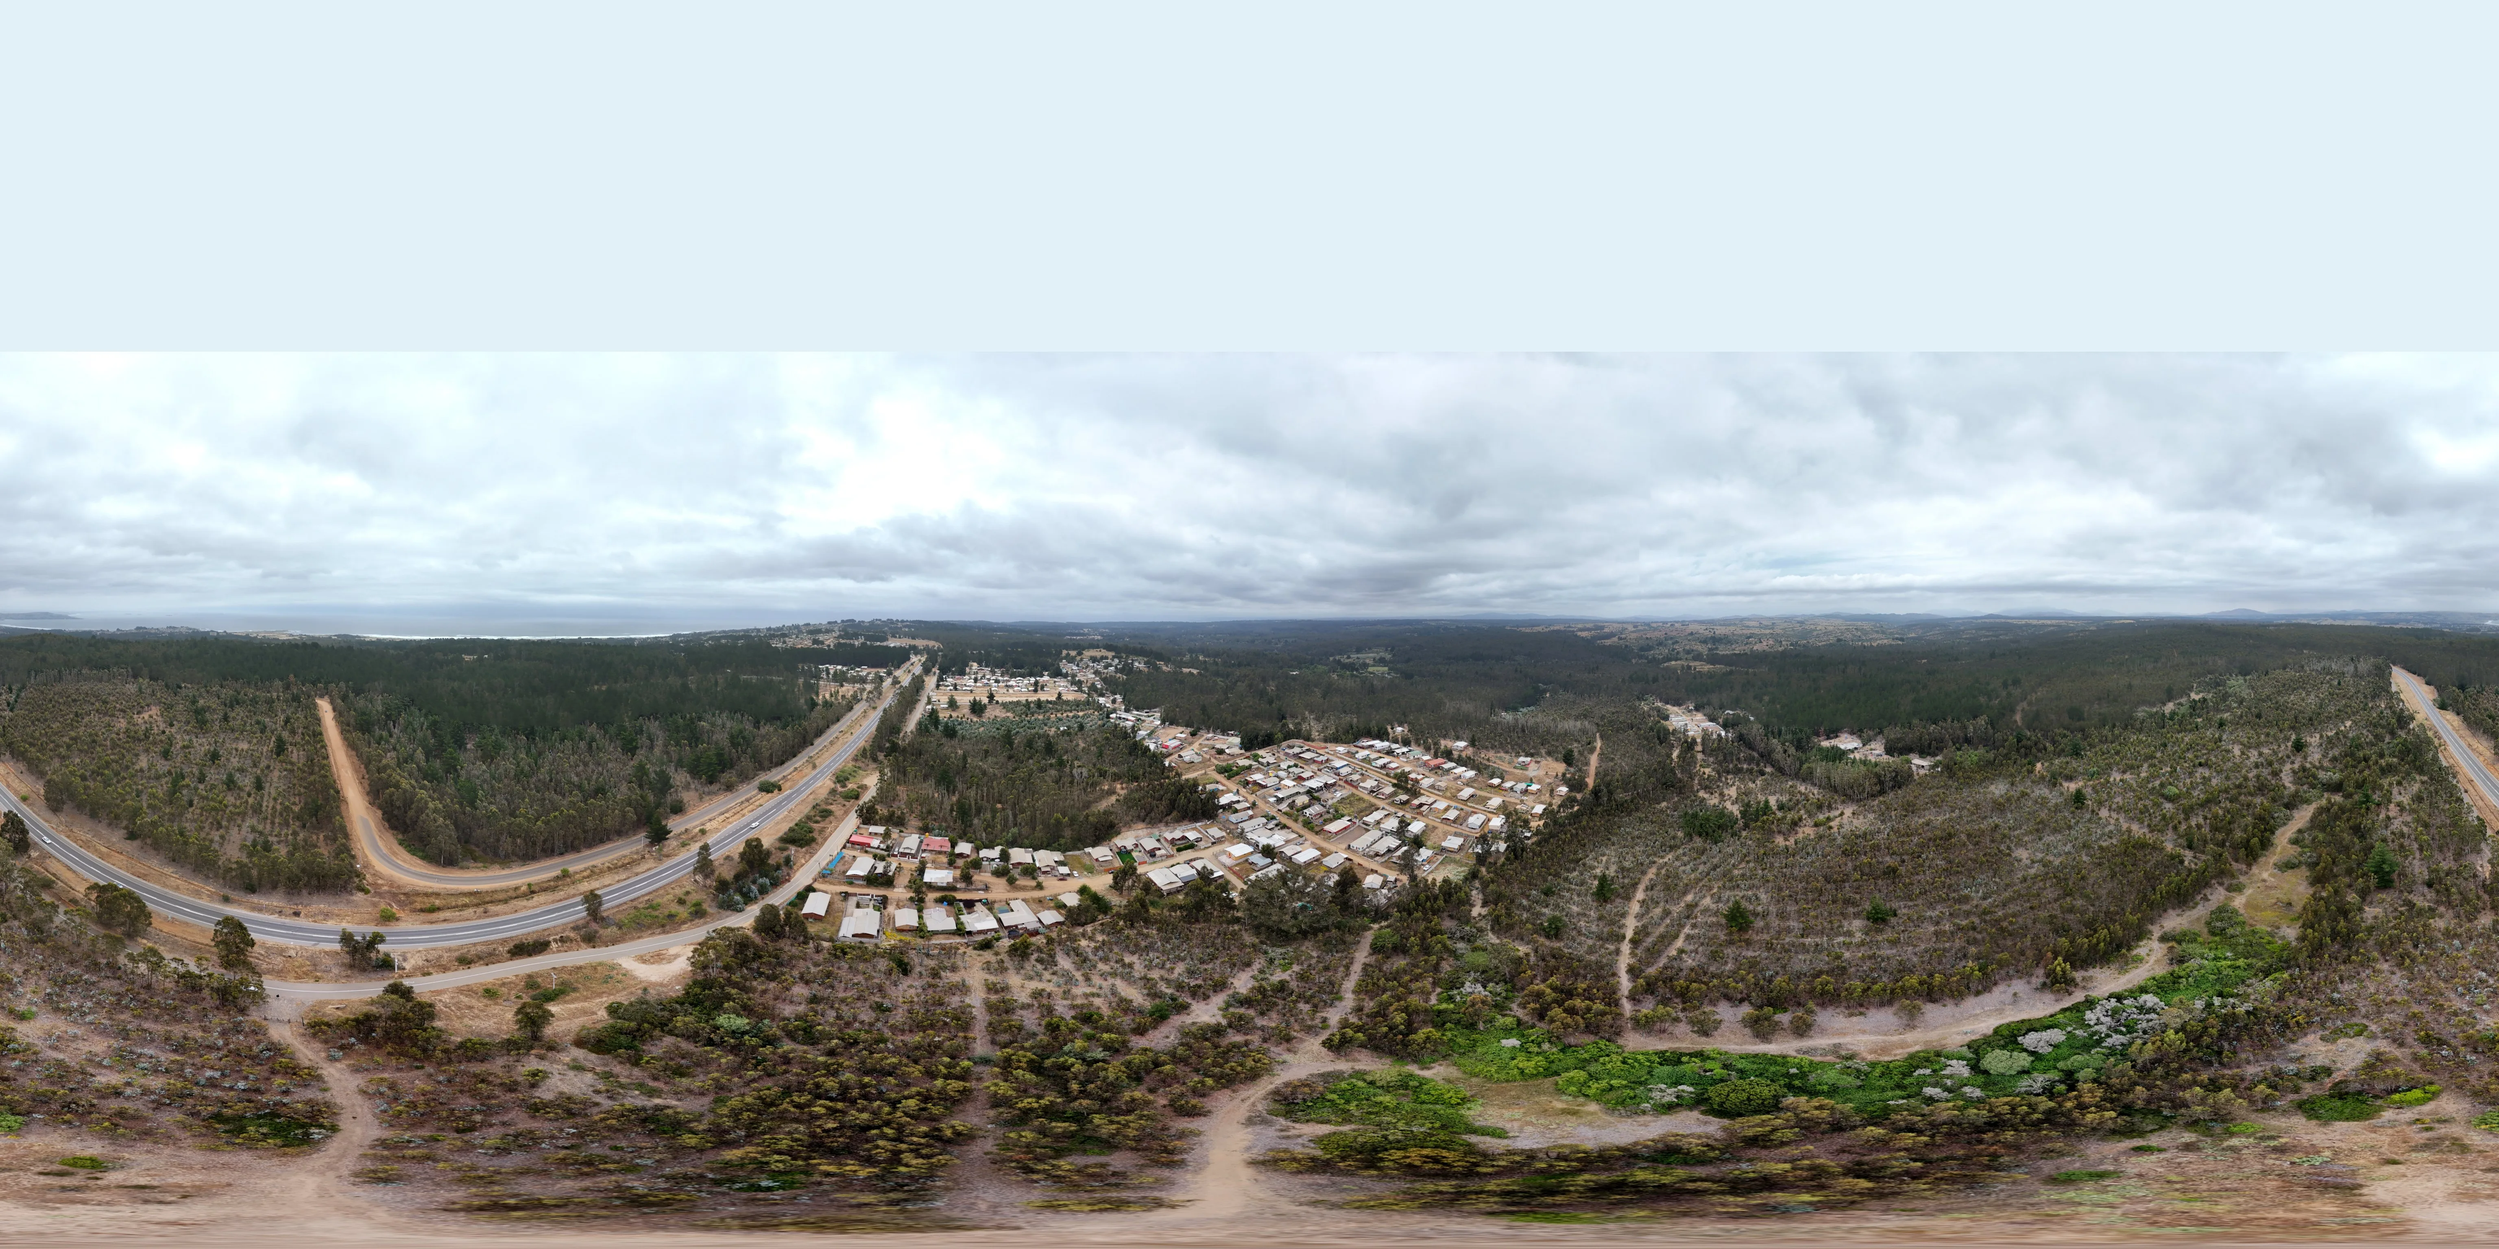
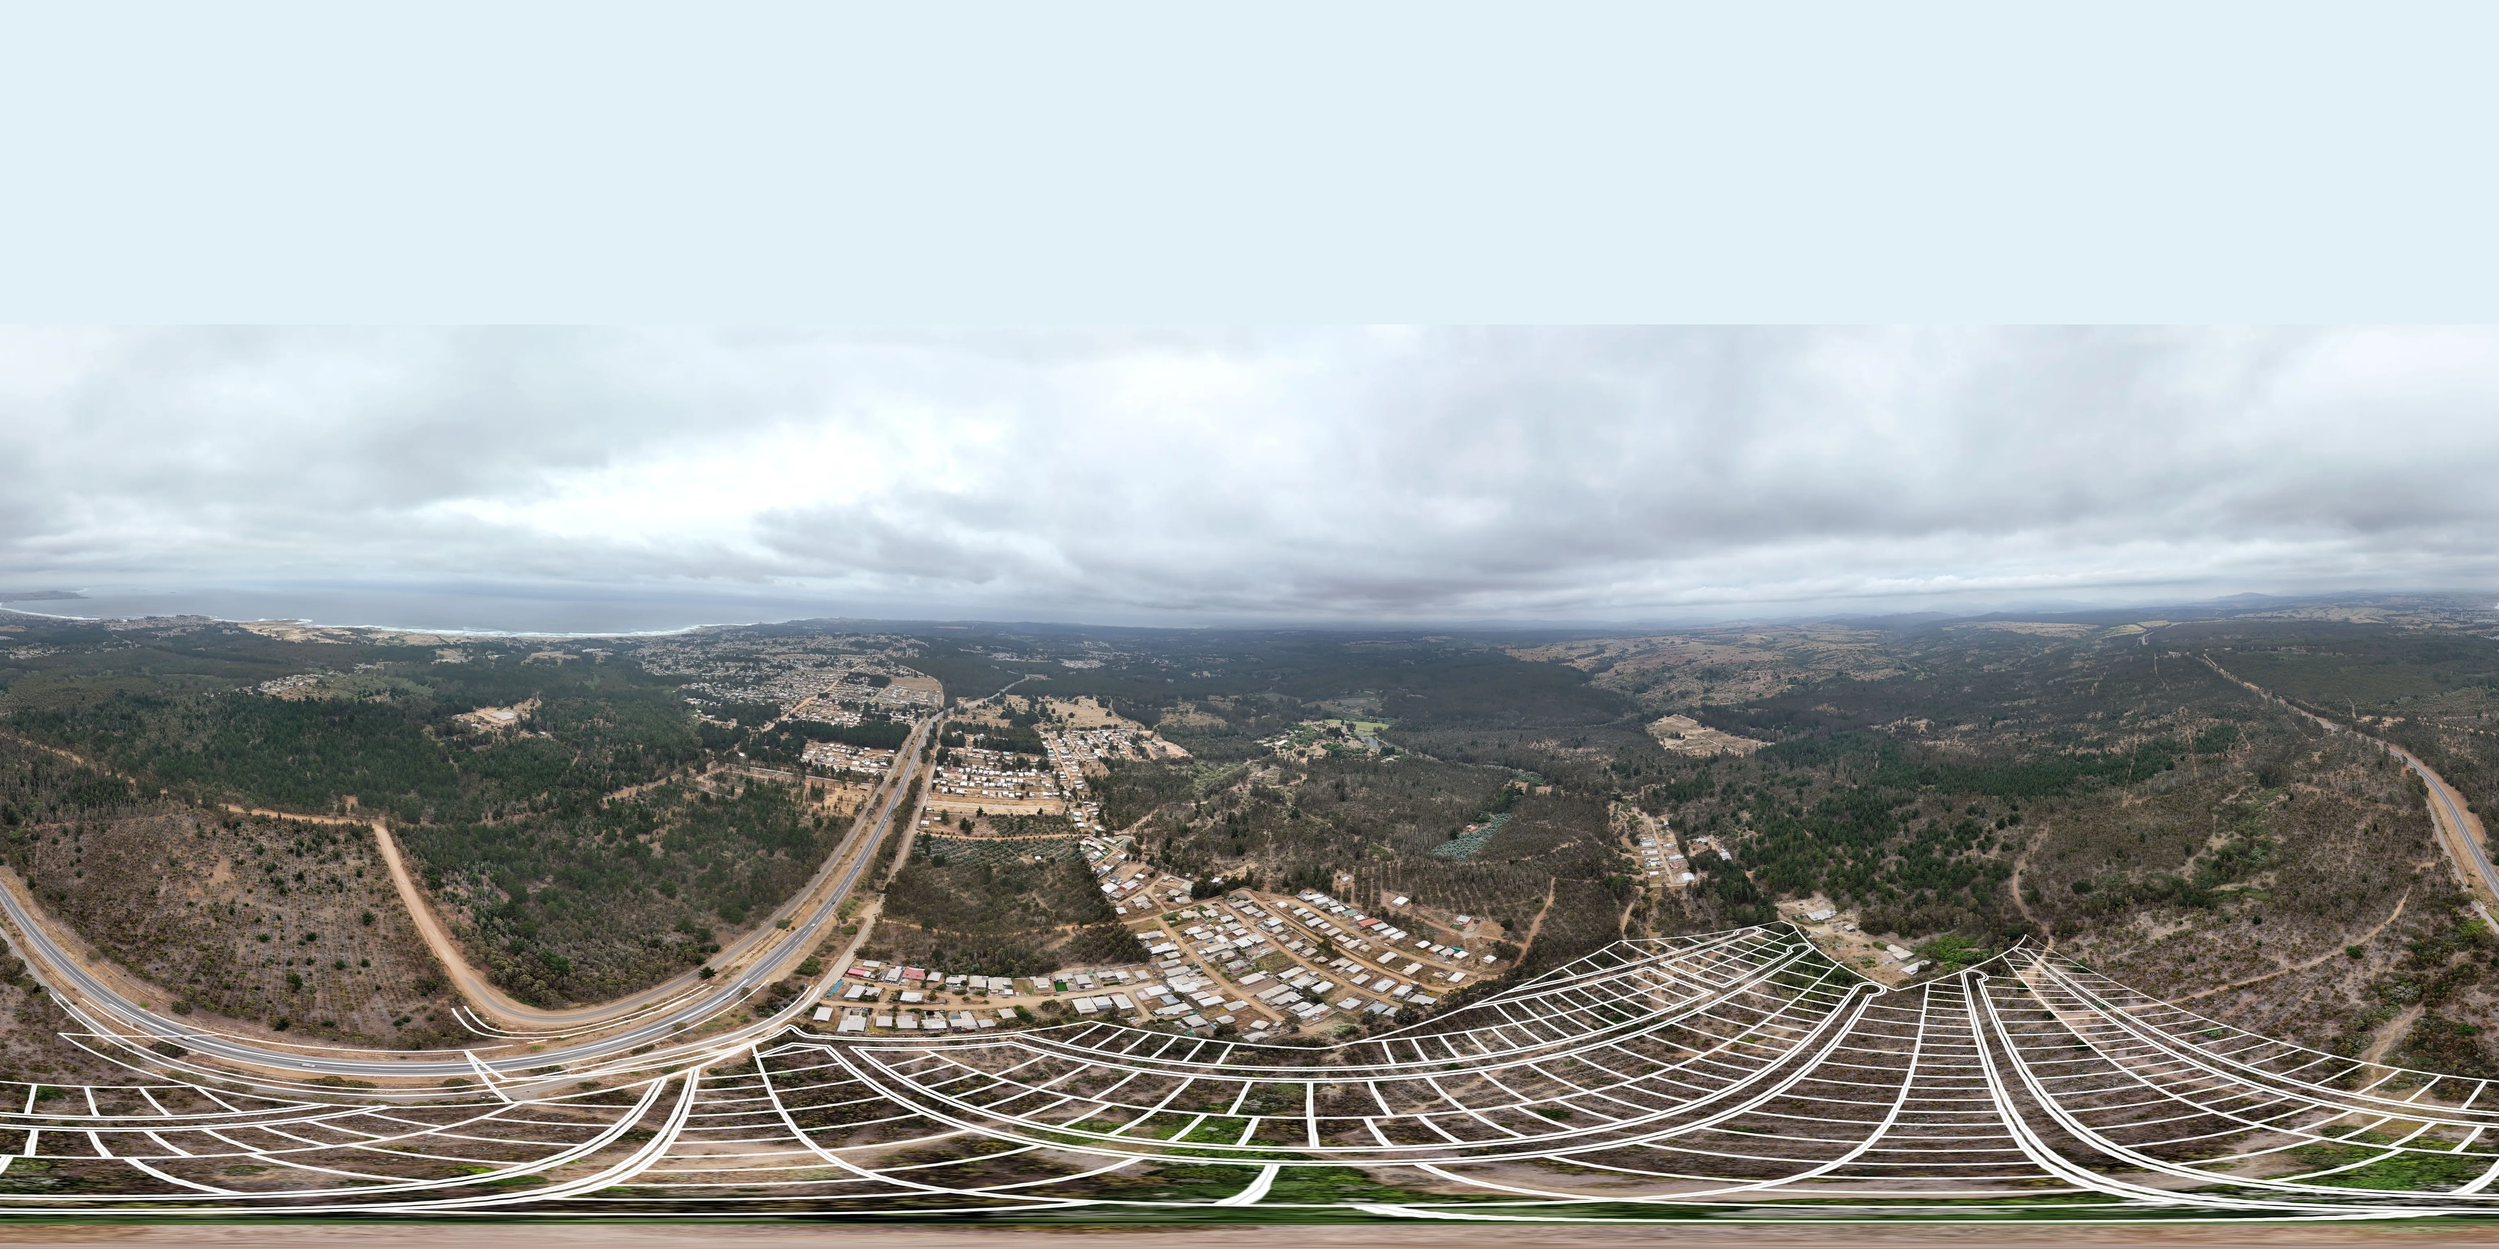
feat(mapa-3d): la panoramica con los deslindes dibujados, y el calce medido
El plano dibujado no venia en la proyeccion del mapa: era la misma foto pero
girada 34,1 grados y recortada 46,8 por arriba. importar-plano-panoramica.js
mide ese desfase correlacionando las dos imagenes (0,939 de correlacion) y
reconstruye la equirectangular 2:1 alineada, tomando de la base el cielo y el
cenit que el dibujado no trae.

Lo importante es lo que eso destrabo. La panoramica se estitcheo sin EXIF, no
hay GPS ni rumbo, y correlacionarla contra la ortofoto daba 0,137: no servia
para calzar nada. Con los deslindes dibujados el problema cambia, porque esas
lineas son los mismos lotes que ya tenemos en coordenadas: calzar-con-plano.js
proyecta los 137 poligonos al equirect y busca los cuatro parametros del vuelo
que hacen caer sus vertices sobre las lineas.

Resultado: 56,9 % de aciertos contra un 4,2 % por azar, catorce veces mejor.
Antes las lineas y los lotes estaban a unos 30 grados; ahora comparten
orientacion y espaciado.

No es perfecto: el calculo supone suelo plano y el loteo tiene 40 m de
desnivel, asi que queda deriva. Se termina a ojo en /agendar-visita?calce=1.

diff --git a/scripts/calzar-con-plano.js b/scripts/calzar-con-plano.js
@@ -1,0 +1,165 @@
+/*
+ * Calcula donde estaba el dron usando los deslindes dibujados sobre la
+ * panoramica.
+ *
+ * El manto del visor proyecta la panoramica sobre el terreno desde la posicion
+ * del dron. Si esa posicion esta mal, la foto queda girada y corrida respecto
+ * de los lotes. La panoramica se estitcheo y perdio el EXIF, asi que no hay
+ * GPS ni rumbo que leer, y correlacionar la foto contra la ortofoto dio 0,137:
+ * inservible.
+ *
+ * El plano dibujado cambia eso. Las lineas blancas SON los deslindes, trazados
+ * en el espacio de la panoramica. Y los 137 poligonos son los mismos deslindes
+ * en coordenadas reales. Asi que se buscan los cuatro parametros del vuelo que
+ * hacen coincidir unos con otros: se proyecta cada vertice al equirect y se
+ * mide cuantos caen sobre una linea blanca.
+ *
+ *   node scripts/calzar-con-plano.js
+ *
+ * Imprime el mejor calce. NO escribe nada: hay que revisarlo en
+ * /agendar-visita?calce=1 antes de guardarlo.
+ *
+ * Supone suelo plano a la cota media del loteo. El desnivel es de 40 m sobre
+ * 160 de altura de vuelo, asi que introduce error; alcanza para el rumbo y la
+ * posicion gruesa, y el ajuste fino se termina a ojo.
+ */
+
+const fs = require('fs')
+const path = require('path')
+const sharp = require('sharp')
+
+const RAIZ = path.join(__dirname, '..')
+const MAPA = path.join(RAIZ, 'public/lomas3d/lotes-editados.json')
+const PANO = path.join(RAIZ, 'public/lomas3d/pano-360.webp')
+
+const TAU = Math.PI * 2
+
+async function main() {
+    const datos = JSON.parse(fs.readFileSync(MAPA, 'utf8'))
+    const lotes = datos.lotes
+
+    // ── mascara de las lineas dibujadas ──────────────────────────────────────
+    const ANCHO = 2048
+    const img = await sharp(PANO).resize(ANCHO).raw().toBuffer({ resolveWithObject: true })
+    const W = img.info.width, H = img.info.height, C = img.info.channels
+    /* Solo bajo el horizonte, que en una equirectangular esta a media altura:
+       el cielo esta nublado y tambien es blanco, y al incluirlo la mascara se
+       comia media imagen y la busqueda dejaba de significar nada.
+
+       El umbral sale del histograma de esa mitad: el terreno se concentra
+       entre 50 y 80, y hay un pico aparte sobre 230 que son las lineas. */
+    const HORIZONTE = Math.floor(H * 0.52)
+    const linea = new Uint8Array(W * H)
+    let pintados = 0
+    for (let y = HORIZONTE; y < H; y++) {
+        for (let x = 0; x < W; x++) {
+            const i = (y * W + x) * C
+            const r = img.data[i], g = img.data[i + 1], b = img.data[i + 2]
+            const max = Math.max(r, g, b), min = Math.min(r, g, b)
+            if (min > 230 && max - min < 20) { linea[y * W + x] = 1; pintados++ }
+        }
+    }
+    const utiles = W * (H - HORIZONTE)
+    console.log(`Panoramica ${W}x${H} — ${(pintados / utiles * 100).toFixed(2)} % de linea bajo el horizonte`)
+    if (pintados < utiles * 0.005) {
+        console.error('Casi no se detectan lineas blancas. ¿Es la panoramica con el plano dibujado?')
+        process.exit(1)
+    }
+
+    // Se ensancha un poco: el trazo es fino y los vertices no caen exactos.
+    const mascara = new Uint8Array(W * H)
+    for (let y = HORIZONTE + 2; y < H - 2; y++) {
+        for (let x = 2; x < W - 2; x++) {
+            if (!linea[y * W + x]) continue
+            for (let dy = -2; dy <= 2; dy++) for (let dx = -2; dx <= 2; dx++) mascara[(y + dy) * W + x + dx] = 1
+        }
+    }
+
+    // ── puntos a lo largo del contorno de cada lote ──────────────────────────
+    const puntos = []
+    for (const l of lotes) {
+        for (let i = 0; i < l.p.length; i++) {
+            const a = l.p[i], b = l.p[(i + 1) % l.p.length]
+            const n = Math.max(2, Math.round(Math.hypot(b[0] - a[0], b[1] - a[1]) / 2))
+            for (let k = 0; k < n; k++) {
+                puntos.push([a[0] + (b[0] - a[0]) * k / n, a[1] + (b[1] - a[1]) * k / n])
+            }
+        }
+    }
+    const paso = Math.ceil(puntos.length / 1600)
+    const P = puntos.filter((_, i) => i % paso === 0)
+    console.log(`Vertices de contorno: ${puntos.length} — se usan ${P.length}`)
+
+    /** Fraccion de vertices que caen sobre una linea dibujada. */
+    const puntuar = (dx, dz, alt, yawGrados) => {
+        const yaw = yawGrados * Math.PI / 180
+        let aciertos = 0
+        for (let i = 0; i < P.length; i++) {
+            const X = P[i][0] - dx, Z = P[i][1] - dz
+            const t = Math.atan2(Z, X)
+            const r = Math.hypot(X, Z)
+            let u = 0.5 - t / TAU + yaw / TAU
+            u -= Math.floor(u)
+            const v = 0.5 - Math.asin(alt / Math.hypot(r, alt)) / Math.PI
+            const px = Math.min(W - 1, Math.max(0, Math.round(u * W)))
+            const py = Math.min(H - 1, Math.max(0, Math.round((1 - v) * H)))
+            if (mascara[py * W + px]) aciertos++
+        }
+        return aciertos / P.length
+    }
+
+    console.log('\nBuscando (esto toma un rato)…')
+    let mejor = { s: -1 }
+    for (let yaw = -180; yaw < 180; yaw += 4) {
+        // El vuelo fue de dron: alturas de cientos de metros no son reales y
+        // solo aparecen cuando la mascara esta sucia.
+        for (const alt of [80, 100, 120, 140, 170, 200, 240]) {
+            for (let dx = -180; dx <= 180; dx += 45) {
+                for (let dz = -180; dz <= 180; dz += 45) {
+                    const s = puntuar(dx, dz, alt, yaw)
+                    if (s > mejor.s) mejor = { s, dx, dz, alt, yaw }
+                }
+            }
+        }
+    }
+    console.log(`  grueso:  x ${mejor.dx}  z ${mejor.dz}  alt ${mejor.alt}  giro ${mejor.yaw}  →  ${(mejor.s * 100).toFixed(1)} % de aciertos`)
+
+    for (let yaw = mejor.yaw - 6; yaw <= mejor.yaw + 6; yaw += 1) {
+        for (let alt = Math.max(60, mejor.alt - 40); alt <= Math.min(300, mejor.alt + 40); alt += 10) {
+            for (let dx = mejor.dx - 50; dx <= mejor.dx + 50; dx += 10) {
+                for (let dz = mejor.dz - 50; dz <= mejor.dz + 50; dz += 10) {
+                    const s = puntuar(dx, dz, alt, yaw)
+                    if (s > mejor.s) mejor = { s, dx, dz, alt, yaw }
+                }
+            }
+        }
+    }
+    console.log(`  medio:   x ${mejor.dx}  z ${mejor.dz}  alt ${mejor.alt}  giro ${mejor.yaw}  →  ${(mejor.s * 100).toFixed(1)} % de aciertos`)
+
+    for (let yaw = mejor.yaw - 2; yaw <= mejor.yaw + 2; yaw += 0.25) {
+        for (let alt = Math.max(60, mejor.alt - 12); alt <= Math.min(300, mejor.alt + 12); alt += 3) {
+            for (let dx = mejor.dx - 12; dx <= mejor.dx + 12; dx += 3) {
+                for (let dz = mejor.dz - 12; dz <= mejor.dz + 12; dz += 3) {
+                    const s = puntuar(dx, dz, alt, yaw)
+                    if (s > mejor.s) mejor = { s, dx, dz, alt, yaw }
+                }
+            }
+        }
+    }
+
+    const azar = pintados / utiles
+    console.log(`  fino:    x ${mejor.dx}  z ${mejor.dz}  alt ${mejor.alt}  giro ${mejor.yaw}  →  ${(mejor.s * 100).toFixed(1)} % de aciertos`)
+    console.log(`\nPor azar se acertaria ${(azar * 100).toFixed(1)} %, asi que el calce es ${(mejor.s / azar).toFixed(0)} veces mejor que el azar.`)
+    console.log(mejor.s > 0.5
+        ? '\nCalce bueno. Cargalo y revisalo a ojo antes de guardar.'
+        : '\nCalce dudoso: revisalo bien en el modo de calce antes de darlo por bueno.')
+
+    console.log('\nPara probarlo, pega esto en public/lomas3d/vuelo.json:\n')
+    console.log(JSON.stringify({
+        _comentario: 'Calce calculado con scripts/calzar-con-plano.js sobre los deslindes dibujados.',
+        calibrado: true,
+        x: mejor.dx, z: mejor.dz, alt: mejor.alt, yaw: mejor.yaw,
+    }, null, 2))
+}
+
+main().catch(e => { console.error(e); process.exit(1) })

diff --git a/scripts/importar-plano-panoramica.js b/scripts/importar-plano-panoramica.js
@@ -1,0 +1,152 @@
+/*
+ * Mete la panorámica con los deslindes dibujados en la proyección que usa el
+ * mapa 3D.
+ *
+ * El archivo que llega del trazado no es una equirectangular completa: viene
+ * girado y recortado por arriba respecto de la panorámica base. Este script
+ * mide ese desfase comparando las dos imágenes —son la misma foto, así que
+ * correlacionan— y reconstruye una equirectangular 2:1 alineada:
+ *
+ *   - la franja de los lotes sale del plano dibujado
+ *   - el cielo y el cenit, que el dibujado no trae, salen de la base
+ *
+ * Asi el manto del visor puede usarla tal cual y los deslindes caen sobre el
+ * terreno donde corresponde.
+ *
+ *   node scripts/importar-plano-panoramica.js "ruta/plano dibujado.jpg"
+ *
+ * Escribe public/lomas3d/pano-360.webp y pano-360-lite.webp. Guarda copia de
+ * las anteriores con sufijo -previo por si hay que volver atras.
+ */
+
+const fs = require('fs')
+const path = require('path')
+const sharp = require('sharp')
+
+const RAIZ = path.join(__dirname, '..')
+const BASE = path.join(RAIZ, 'Agendamiento-dron/drone/pano-360.jpg')
+const SALIDA = path.join(RAIZ, 'public/lomas3d/pano-360.webp')
+const SALIDA_LITE = path.join(RAIZ, 'public/lomas3d/pano-360-lite.webp')
+
+/** Ancho al que se reducen las dos imágenes para medir el desfase. */
+const W = 1024
+
+function ncc(u, v) {
+    const n = u.length
+    let mu = 0, mv = 0
+    for (let i = 0; i < n; i++) { mu += u[i]; mv += v[i] }
+    mu /= n; mv /= n
+    let num = 0, du = 0, dv = 0
+    for (let i = 0; i < n; i++) {
+        const x = u[i] - mu, y = v[i] - mv
+        num += x * y; du += x * x; dv += y * y
+    }
+    return du && dv ? num / Math.sqrt(du * dv) : -2
+}
+
+/**
+ * Giro horizontal y desplazamiento vertical del plano dibujado respecto de la
+ * base. Se compara solo el tercio superior: ahi hay cielo y horizonte, sin
+ * lineas pintadas que ensucien la medicion.
+ *
+ * En una equirectangular, llevar las dos al mismo ancho ya iguala la escala
+ * vertical: los grados por pixel son los mismos en los dos ejes. Por eso solo
+ * hacen falta dos desplazamientos, no una escala.
+ */
+async function medirDesfase(archivo) {
+    const a = await sharp(archivo).resize(W).greyscale().raw().toBuffer({ resolveWithObject: true })
+    const b = await sharp(BASE).resize(W).greyscale().raw().toBuffer({ resolveWithObject: true })
+    const HA = a.info.height, HB = b.info.height
+    const filas = Math.floor(HA * 0.42)
+
+    const puntuar = (dx, dy, pasoY, pasoX) => {
+        const u = [], v = []
+        for (let y = 10; y < filas; y += pasoY) {
+            const yb = y + dy
+            if (yb < 0 || yb >= HB) continue
+            for (let x = 0; x < W; x += pasoX) {
+                u.push(a.data[y * W + x])
+                v.push(b.data[yb * W + (((x + dx) % W) + W) % W])
+            }
+        }
+        return u.length < 400 ? -2 : ncc(u, v)
+    }
+
+    let mejor = { s: -2 }
+    for (let dx = 0; dx < W; dx++) {
+        for (let dy = -120; dy <= 200; dy += 2) {
+            const s = puntuar(dx, dy, 3, 7)
+            if (s > mejor.s) mejor = { s, dx, dy }
+        }
+    }
+    for (let dx = mejor.dx - 3; dx <= mejor.dx + 3; dx++) {
+        for (let dy = mejor.dy - 3; dy <= mejor.dy + 3; dy++) {
+            const s = puntuar(dx, dy, 2, 4)
+            if (s > mejor.s) mejor = { s, dx, dy }
+        }
+    }
+    return { ...mejor, HA, HB }
+}
+
+async function main() {
+    const origen = process.argv[2]
+    if (!origen || !fs.existsSync(origen)) {
+        console.error('Uso: node scripts/importar-plano-panoramica.js "ruta/plano dibujado.jpg"')
+        process.exit(1)
+    }
+
+    const base = await sharp(BASE).metadata()
+    const AN = base.width, AL = base.height
+    console.log(`Panoramica base: ${AN}x${AL}`)
+
+    const d = await medirDesfase(origen)
+    console.log(`Correlacion con la base: ${d.s.toFixed(3)}`)
+    if (d.s < 0.7) {
+        console.error('\nCorrelacion demasiado baja: puede que no sea la misma panoramica.')
+        console.error('No se escribe nada para no romper el mapa.')
+        process.exit(1)
+    }
+
+    // Los desplazamientos se midieron a 1024 de ancho: se escalan al tamaño real.
+    const k = AN / W
+    const giro = Math.round(d.dx * k)
+    const arriba = Math.round(d.dy * (AL / d.HB))
+    console.log(`Giro: ${(d.dx / W * 360).toFixed(2)} grados (${giro} px)`)
+    console.log(`Recorte superior del dibujado: ${(d.dy * 180 / d.HB).toFixed(1)} grados (${arriba} px)`)
+
+    // El dibujado, llevado al ancho de la base.
+    const dibujado = await sharp(origen).resize({ width: AN }).toBuffer()
+    const md = await sharp(dibujado).metadata()
+    console.log(`Plano dibujado reescalado: ${md.width}x${md.height}`)
+
+    /* Se apoya sobre la base: el cielo y el cenit, que el dibujado no trae,
+       quedan con los de la panoramica original. */
+    const compuesta = await sharp(BASE)
+        .composite([{ input: dibujado, top: arriba, left: 0 }])
+        .raw()
+        .toBuffer({ resolveWithObject: true })
+
+    // Giro horizontal: la equirectangular es continua, se puede rotar sin costura.
+    const { data, info } = compuesta
+    const c = info.channels
+    const girada = Buffer.alloc(data.length)
+    for (let y = 0; y < AL; y++) {
+        for (let x = 0; x < AN; x++) {
+            const xo = (((x - giro) % AN) + AN) % AN
+            data.copy(girada, (y * AN + x) * c, (y * AN + xo) * c, (y * AN + xo) * c + c)
+        }
+    }
+
+    for (const [salida, ancho, calidad] of [[SALIDA, AN, 82], [SALIDA_LITE, 2048, 70]]) {
+        if (fs.existsSync(salida)) fs.copyFileSync(salida, salida.replace('.webp', '-previo.webp'))
+        await sharp(girada, { raw: { width: AN, height: AL, channels: c } })
+            .resize({ width: ancho })
+            .webp({ quality: calidad })
+            .toFile(salida)
+        console.log(`Escrito ${path.basename(salida)} — ${(fs.statSync(salida).size / 1048576).toFixed(2)} MB`)
+    }
+
+    console.log('\nCopias de seguridad con sufijo -previo por si hay que volver atras.')
+}
+
+main().catch(e => { console.error(e); process.exit(1) })
